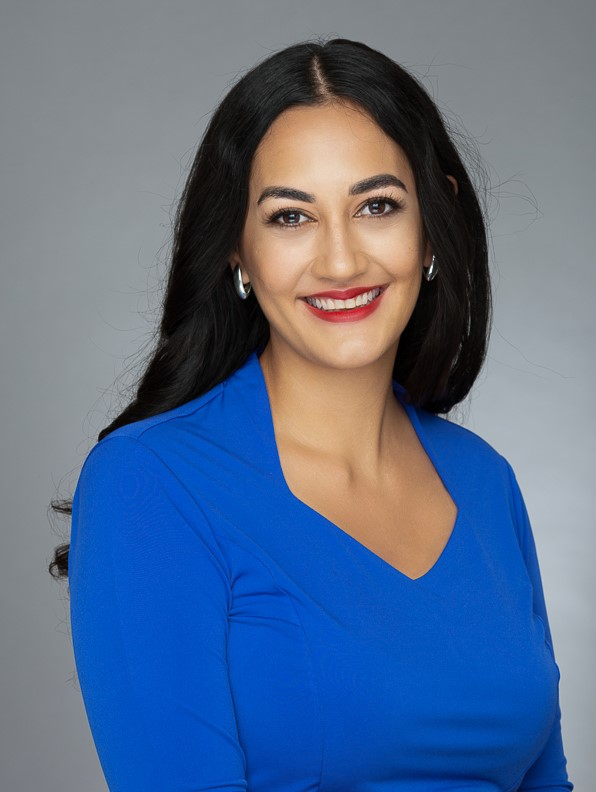
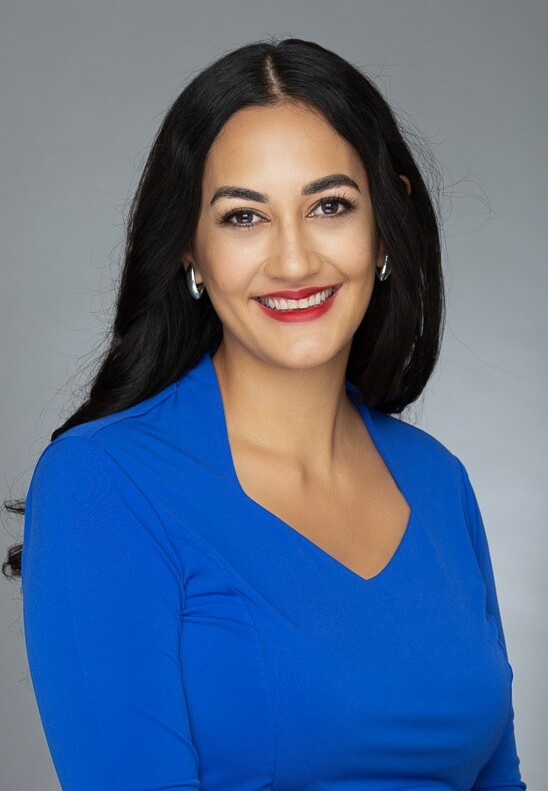
made new pages for content, working on mls api

diff --git a/front-end/src/pages/Agents.tsx b/front-end/src/pages/Agents.tsx
@@ -4,6 +4,7 @@ import josephPhoto from '../assets/images/Joseph.jpg';
 import sashaPhoto from '../assets/images/Sasha.jpg';
 import hawanaPhoto from '../assets/images/Hawana.jpg';
 import arielPhoto from '../assets/images/Ariel.jpg';
+import shirleyPhoto from '../assets/images/Shirley.jpg';
 
 const About = () => {
 
@@ -11,6 +12,7 @@ const [isFlipped1, setIsFlipped1] = useState(false);
 const [isFlipped2, setIsFlipped2] = useState(false);
 const [isFlipped3, setIsFlipped3] = useState(false);
 const [isFlipped4, setIsFlipped4] = useState(false);
+const [isFlipped5, setIsFlipped5] = useState(false);
 
 const flipCard1 = () => {
   setIsFlipped1(!isFlipped1);
@@ -24,6 +26,14 @@ const flipCard3 = () => {
 const flipCard4 = () => {
   setIsFlipped4(!isFlipped4);
 }
+const flipCard5 = () => {
+  setIsFlipped5(!isFlipped5);
+}
+
+
+
+// trim off ariels photo!!!!!!!!!!!!!!!!!!!!! do it now!!!!!!!!!!!! fix the stupid lapover!!!!!!!!!!!! 
+
 
   return (
     <div className="agentsWrapper">
@@ -32,6 +42,7 @@ const flipCard4 = () => {
         <div className="card card-front" onClick={flipCard1}>
           <img src={josephPhoto}></img>
           <h3>Joseph Blackburn</h3>
+          <h5>Co-Owner</h5>
           <h5>Broker/Agent</h5>
         </div>
         <div className="card card-back" onClick={flipCard1}>
@@ -41,9 +52,9 @@ const flipCard4 = () => {
 
       <ReactCardFlip flipDirection='horizontal' isFlipped={isFlipped2}>
         <div className="card card-front" onClick={flipCard2}>
-          <img src={sashaPhoto}></img>
-          <h3>Sasha Haukoloa</h3>
-          <h5>Agent</h5>
+          <img src={shirleyPhoto}></img>
+          <h3>Shirley Blackburn</h3>
+          <h5>Co-Owner</h5>
         </div>
         <div className="card card-back" onClick={flipCard2}>
           <h3>Back</h3>
@@ -52,8 +63,8 @@ const flipCard4 = () => {
 
       <ReactCardFlip flipDirection='horizontal' isFlipped={isFlipped3}>
         <div className="card card-front" onClick={flipCard3}>
-          <img src={hawanaPhoto}></img>
-          <h3>Hawana Blackburn</h3>
+          <img id="arielImg" src={arielPhoto}></img>
+          <h3>Ariel Blackburn-Rhoades</h3>
           <h5>Agent</h5>
         </div>
         <div className="card card-back" onClick={flipCard3}>
@@ -61,10 +72,21 @@ const flipCard4 = () => {
         </div>
       </ReactCardFlip>
 
+      <ReactCardFlip flipDirection='horizontal' isFlipped={isFlipped5}>
+        <div className="card card-front" onClick={flipCard5}>
+          <img src={sashaPhoto}></img>
+          <h3>Sasha Haukoloa</h3>
+          <h5>Agent</h5>
+        </div>
+        <div className="card card-back" onClick={flipCard5}>
+          <h3>Back</h3>
+        </div>
+      </ReactCardFlip>
+
       <ReactCardFlip flipDirection='horizontal' isFlipped={isFlipped4}>
         <div className="card card-front" onClick={flipCard4}>
-          <img style={{width: '367px'}} src={arielPhoto}></img>
-          <h3>Ariel Blackburn-Rhoades</h3>
+          <img src={hawanaPhoto}></img>
+          <h3>Hawana Blackburn</h3>
           <h5>Agent</h5>
         </div>
         <div className="card card-back" onClick={flipCard4}>

diff --git a/front-end/src/components/Cards.tsx b/front-end/src/components/Cards.tsx
@@ -12,25 +12,33 @@ return (
 
     <div className="wrapper">
         
-        <div className="cardIcon">
-            <FontAwesomeIcon className='icons' icon={faSignHanging}></FontAwesomeIcon>
-            <h5>Buy/Sell With Us</h5>
-        </div>
+        <a href="/buySell">
+            <div className="cardIcon">
+                <FontAwesomeIcon className='icons' icon={faSignHanging}></FontAwesomeIcon>
+                <h5>Buy/Sell With Us</h5>
+            </div>
+        </a>
 
-        <div className="cardIcon">
-            <FontAwesomeIcon className='icons' icon={faKey}></FontAwesomeIcon>
-            <h5>Rent With Us</h5>
-        </div>
+        <a href="/rentwithus">
+            <div className="cardIcon">
+                <FontAwesomeIcon className='icons' icon={faKey}></FontAwesomeIcon>
+                <h5>Rent With Us</h5>
+            </div>
+        </a>
 
-        <div className="cardIcon">
-            <FontAwesomeIcon className='icons' icon={faCalculator}></FontAwesomeIcon>
-            <h5>Mortgage Calculator</h5>
-        </div>
+        <a href="/mortgagecalculator">
+            <div className="cardIcon">
+                <FontAwesomeIcon className='icons' icon={faCalculator}></FontAwesomeIcon>
+                <h5>Mortgage Calculator</h5>
+            </div>
+        </a>
 
-        <div className="cardIcon">
-            <FontAwesomeIcon className='icons' icon={faHouse}></FontAwesomeIcon>
-            <h5>HOA Information & Documents</h5>
-        </div>
+        <a href="/hoainfo">
+            <div className="cardIcon">
+                <FontAwesomeIcon className='icons' icon={faHouse}></FontAwesomeIcon>
+                <h5>HOA Information & Documents</h5>
+            </div>
+        </a>
 
         <div className="cardIcon">
             <FontAwesomeIcon className='icons' icon={faHouseUser}></FontAwesomeIcon>

diff --git a/front-end/src/App.tsx b/front-end/src/App.tsx
@@ -8,6 +8,11 @@ import Associations from './pages/Associations';
 import Agents from './pages/Agents';
 import Rentals from './pages/Rentals';
 import About from './pages/About';
+import BuySell from './pages/BuySell';
+import RentWithUs from './pages/RentWithUs';
+import MortgageCalculator from './pages/MortgageCalculator';
+import HoaInfo from './pages/HoaInfo';
+import SearchResults from './pages/SearchResults';
 
 function App() {
   ReactGA.initialize("UA-000000-01");
@@ -16,7 +21,6 @@ function App() {
   return (
     <>
       <NavigationBar />
-      <div>
           <Routes>
             <Route path='/' element={<Home />} />
             <Route path='about' element={<About />} />
@@ -24,9 +28,15 @@ function App() {
             <Route path='associations' element={<Associations />} />
             <Route path='listings' element={<Listings />} />
             <Route path='rentals' element={<Rentals />} />
+            <Route path='buysell' element={<BuySell />} />
+            <Route path='rentwithus' element={<RentWithUs />} />
+            <Route path='mortgagecalculator' element={<MortgageCalculator />} />
+            <Route path='hoainfo' element={<HoaInfo />} />
+            <Route path='searchresults' element={<SearchResults />} />
           </Routes>
-      </div>
+
       <Footer />
+
     </>
   );
 }

diff --git a/front-end/src/pages/SearchResults.tsx b/front-end/src/pages/SearchResults.tsx
@@ -1,0 +1,46 @@
+import { useState, useEffect } from 'react';
+
+const SearchResults = () => {
+
+    const [listings, setListings]: any[] = useState([]);
+    
+    const url = 'https://zillow56.p.rapidapi.com/search?location=96793';
+    const options = {
+      method: 'GET',
+      headers: {
+        'X-RapidAPI-Key': '36b9de386bmsh83631e05836c7bbp1265c4jsne4baecaf36d0',
+        'X-RapidAPI-Host': 'zillow56.p.rapidapi.com'
+      }
+    };    
+  
+  
+    // fetch request for mls api
+    const mlsFetch = async () => {
+      try {
+        const response = await fetch(url, options);
+        const result = await response.text();
+        console.log(result);
+        setListings(result)
+      } catch (error) {
+        console.error(error);
+      }
+    }
+  
+    useEffect(() => {
+      mlsFetch();
+    }, [])
+    
+
+  return (
+    <div className="searchResultsContainer">
+        SearchResults
+
+        {/* {listings.map(listing => (
+
+        ))} */}
+
+    </div>
+  )
+}
+
+export default SearchResults;

diff --git a/front-end/src/components/Hero.tsx b/front-end/src/components/Hero.tsx
@@ -1,3 +1,4 @@
+import { useState, useEffect } from 'react';
 import Carousel from 'react-bootstrap/Carousel';
 import Form from 'react-bootstrap/Form';
 import Button from 'react-bootstrap/Button';
@@ -7,8 +8,11 @@ import maluhiaPic3 from '../assets/images/maluhiaPic3.jpeg';
 import maluhiaPic4 from '../assets/images/maluhiaPic4.jpeg';
 import maluhiaPic5 from '../assets/images/maluhiaPic5.jpeg';
 import familyPic from '../assets/images/Family009.jpg';
+import taroImg from '../assets/images/taroLeavesCorner.jpg';
+
 
 const Hero = () => {
+
   return (
     <div className='hero'>
       <div className='hero-top-section'>
@@ -174,10 +178,9 @@ const Hero = () => {
               <option value="5">5</option>
             </Form.Select>
           </div>
-          <Button variant="success">Search</Button>
+          <Button href="/searchresults" variant="success">Search</Button>
         </Form>
       </div>
-
     </div>
   )
 }

diff --git a/front-end/src/assets/styles/pages/agents.css b/front-end/src/assets/styles/pages/agents.css
@@ -4,7 +4,7 @@
     color: black;
     display: flex;
     align-items: center;
-    justify-content: space-evenly;
+    justify-content: space-around;
 
     @media (max-width: 2100px) {
         height: 100%;
@@ -16,19 +16,20 @@
 .card {
     width: 330px;
     height: 400px;
-    border-radius: 20px;
-    margin: 0px auto;
-
+    text-align: center;
+    margin: 0px auto; 
+     /* ^^^^^^^^^ horizontally centers elements in container */
+    
     @media (max-width: 2100px) {
-        margin-top: 100px;
-        margin-bottom: 150px;
+        margin: 9.5rem 1rem;
     }
 }
 
-.card-front {
-    text-align: center;
-}
 
 .card-back {
+    border: none;
+}
 
+#arielImg {
+    width: 21.4rem;
 }

diff --git a/front-end/src/assets/styles/main.css b/front-end/src/assets/styles/main.css
@@ -6,6 +6,11 @@
     /* background-image: url("../images/hawaiianFlowersImg.png")  */
   }
 
+a {
+  text-decoration: none;
+}
+  
+
 /* Base */
 @import "base/global.css";
 @import "base/typography.css";
@@ -21,4 +26,12 @@
 /* Pages */
 @import "pages/home.css";
 @import "pages/agents.css";
+@import "pages/about.css";
+@import "pages/buysell.css";
+@import "pages/rentals.css";
+@import "pages/rentwithus.css";
+@import "pages/mortgagecalculator.css";
+@import "pages/hoainfo.css";
+@import "pages/searchresults.css";
+
 

diff --git a/front-end/src/assets/styles/components/cards.css b/front-end/src/assets/styles/components/cards.css
@@ -15,11 +15,11 @@
 	margin-right: 4.75rem;
 	text-align: center;
 	cursor: pointer;
-
+	
 	@media (max-width: 1400px) {
 		margin-left: 2rem;
 		margin-right: 2rem;
-		}
+	}
 	@media (max-width: 820px) {
 		margin-top: 1rem;
 		margin-bottom: 1rem;
@@ -41,7 +41,7 @@
 }
 
 .icons:hover {
-	animation: bounce 1.5s ease-in-out;
+	animation: bounce 1.3s ease-out;
 	/* opacity: 50%; */
 	color: #B2C035;
 }

diff --git a/front-end/src/pages/BuySell.tsx b/front-end/src/pages/BuySell.tsx
@@ -1,0 +1,17 @@
+
+const BuySell = () => {
+  return (
+    <div className="buySellContainer">
+        
+        BuySell
+        
+        Information on buying and selling homes through MLB
+        
+
+
+
+    </div>
+  )
+}
+
+export default BuySell;

diff --git a/front-end/src/pages/Home.tsx b/front-end/src/pages/Home.tsx
@@ -6,8 +6,10 @@ import lilikoi from '../assets/images/lilikoi1-removebg-preview.png';
 const Home = () => {
   return (
     <div className="homeContainer">
+
       <Hero />
       <Cards />
+
     </div>
   )
 }

diff --git a/front-end/src/pages/MortgageCalculator.tsx b/front-end/src/pages/MortgageCalculator.tsx
@@ -1,0 +1,10 @@
+
+const MortgageCalculator = () => {
+  return (
+    <div className="mortgageCalculatorContainer">
+        MortgageCalculator
+    </div>
+  )
+}
+
+export default MortgageCalculator;

diff --git a/front-end/src/pages/Rentals.tsx b/front-end/src/pages/Rentals.tsx
@@ -1,8 +1,9 @@
-import React from 'react'
 
 const Rentals = () => {
   return (
-    <div>Rentals</div>
+    <div className="rentalsContainer">
+      Rentals
+    </div>
   )
 }
 
